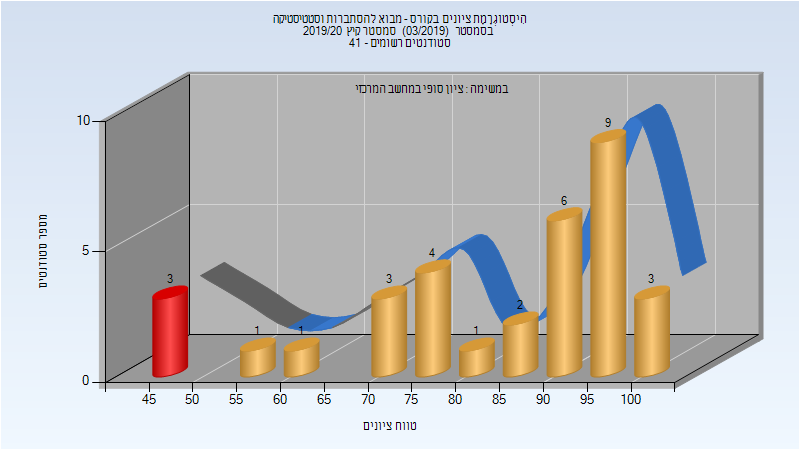
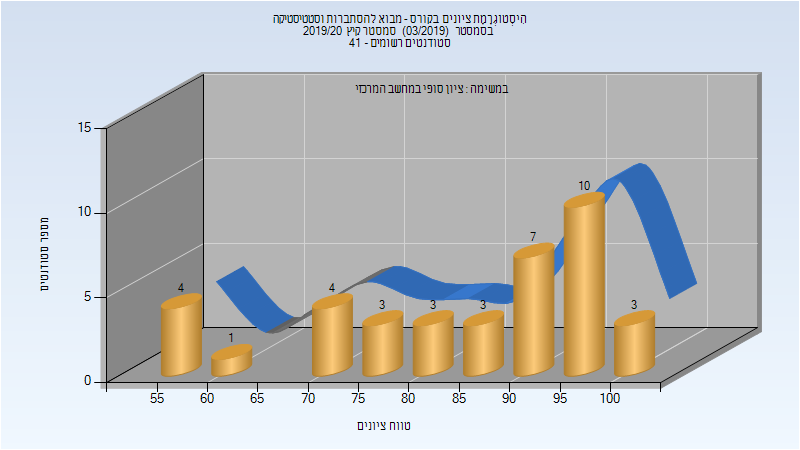
Deploy michael-maltsev/technion-histograms to github.com/michael-maltsev/technion-histograms.git:gh-pages

diff --git a/094481/index.html b/094481/index.html
@@ -1450,13 +1450,13 @@
 </thead>
 <tbody>
 <tr>
-<td>33</td>
-<td>30/3</td>
-<td>91</td>
-<td>45</td>
+<td>38</td>
+<td>38/0</td>
 <td>100</td>
-<td>84</td>
-<td>91</td>
+<td>55</td>
+<td>100</td>
+<td>84.816</td>
+<td>90.5</td>
 </tr>
 </tbody>
 </table>

diff --git a/094481/README.md b/094481/README.md
@@ -457,5 +457,5 @@
 
 | סטודנטים | עברו/נכשלו | אחוז עוברים | ציון מינימלי | ציון מקסימלי | ממוצע | חציון |
 | ---- | ---- | ---- | ---- | ---- | ---- | ---- |
-| 33 | 30/3 | 91 | 45 | 100 | 84 | 91 |
+| 38 | 38/0 | 100 | 55 | 100 | 84.816 | 90.5 |
 
